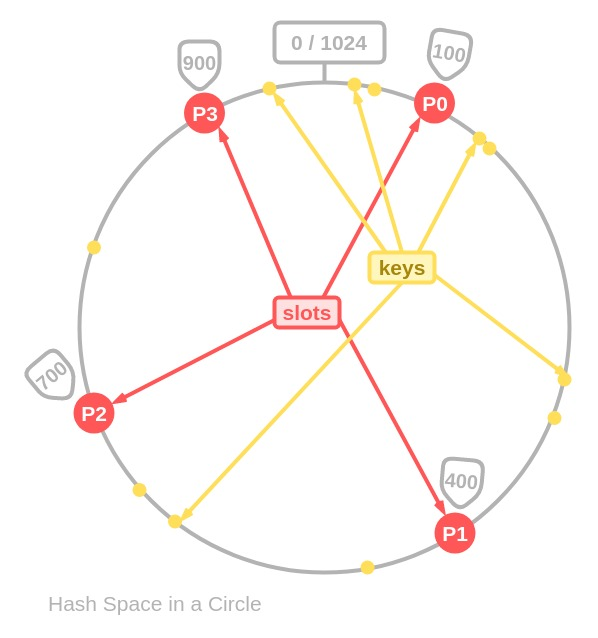
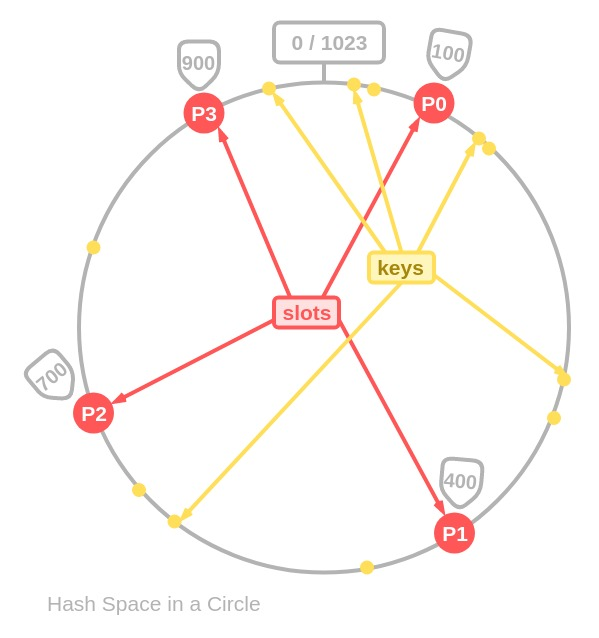
Replace 1024 with 1023

diff --git a/_posts/consistent-hashing/2019-07-29-consistent-hashing.md b/_posts/consistent-hashing/2019-07-29-consistent-hashing.md
@@ -19,7 +19,7 @@ Let's say you have implemented a very successful online telephone book. Your use
   
   When choosing a hash function, it is good to choose one, which distributes hashes uniformly.  
   
-  Let's say that our `some_hash_function` creates integer values between 0 and 1024. 
+  Let's say that our `some_hash_function` creates integer values between 0 and 1023. 
 
 - Next you need to choose the number of partitions or `slots`. 
 
@@ -29,7 +29,7 @@ Let's say you have implemented a very successful online telephone book. Your use
 
 - Now you need to map the `slots` into the same hash-space as the `keys`.
 
-  We need to give each of our 4 partitions a hash value and this hash value must also be between 0 and 1024 just like the results of `some_hash_function`. 
+  We need to give each of our 4 partitions a hash value and this hash value must also be between 0 and 1023 just like the results of `some_hash_function`. 
 
   We can use any method to define the hashes of our 4 partitions. Let's say we have chosen the following values: 
   
@@ -46,7 +46,7 @@ Let's say you have implemented a very successful online telephone book. Your use
 
   ![hash-space-line](/assets/consistent-hashing-space-line.jpg)
 
-  Our hash space extends from 0 to 1024. All the `keys` (=person's names) and all the `slots` (=DB partitions) have their position in the same hash space.
+  Our hash space extends from 0 to 1023. All the `keys` (=person's names) and all the `slots` (=DB partitions) have their position in the same hash space.
 
   To avoid having to deal with the start and the end, the hash space is usually drawn as a circle. Like this:
 
